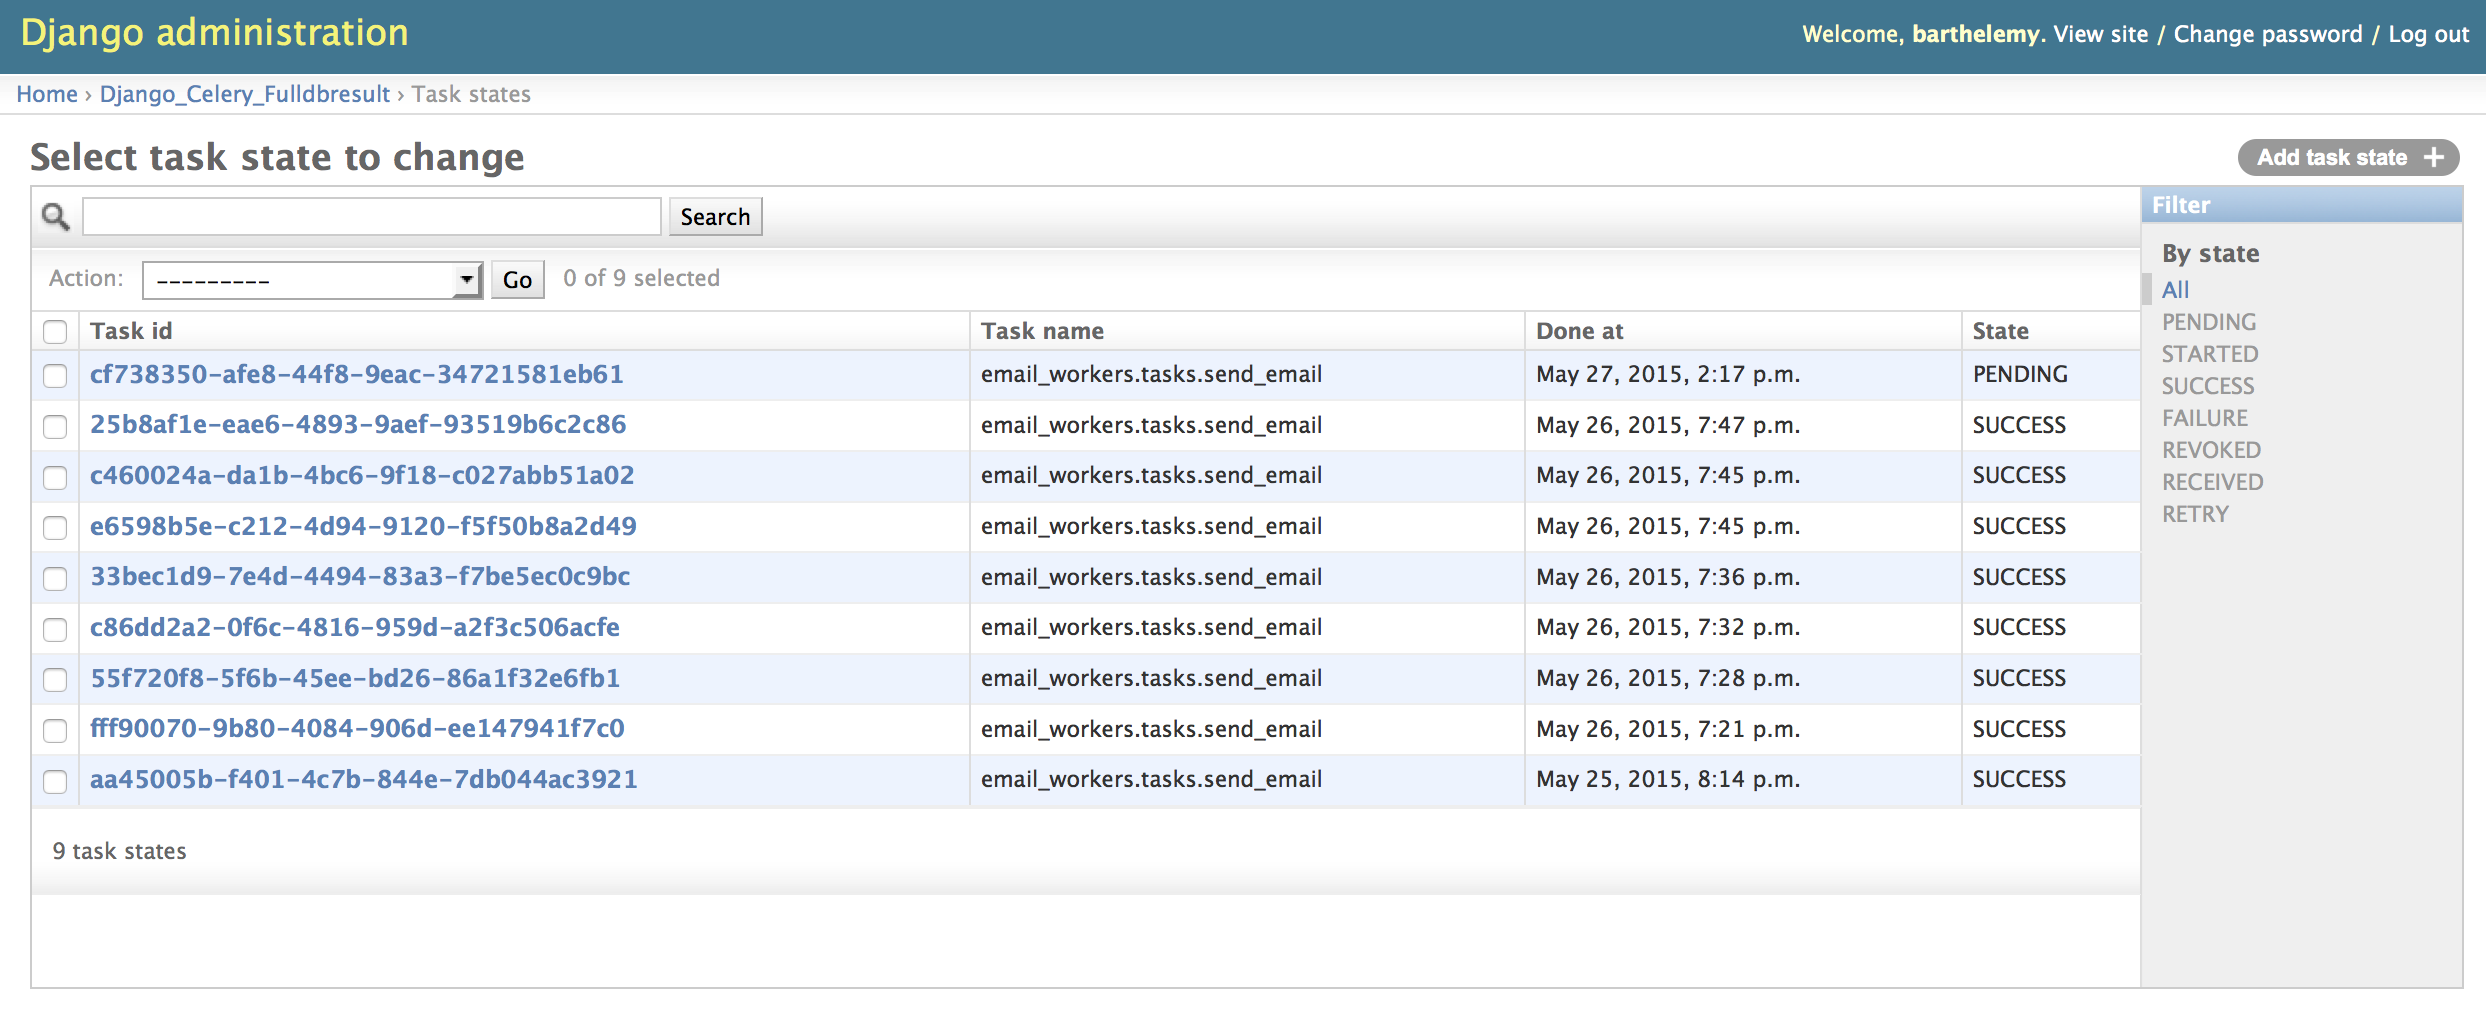
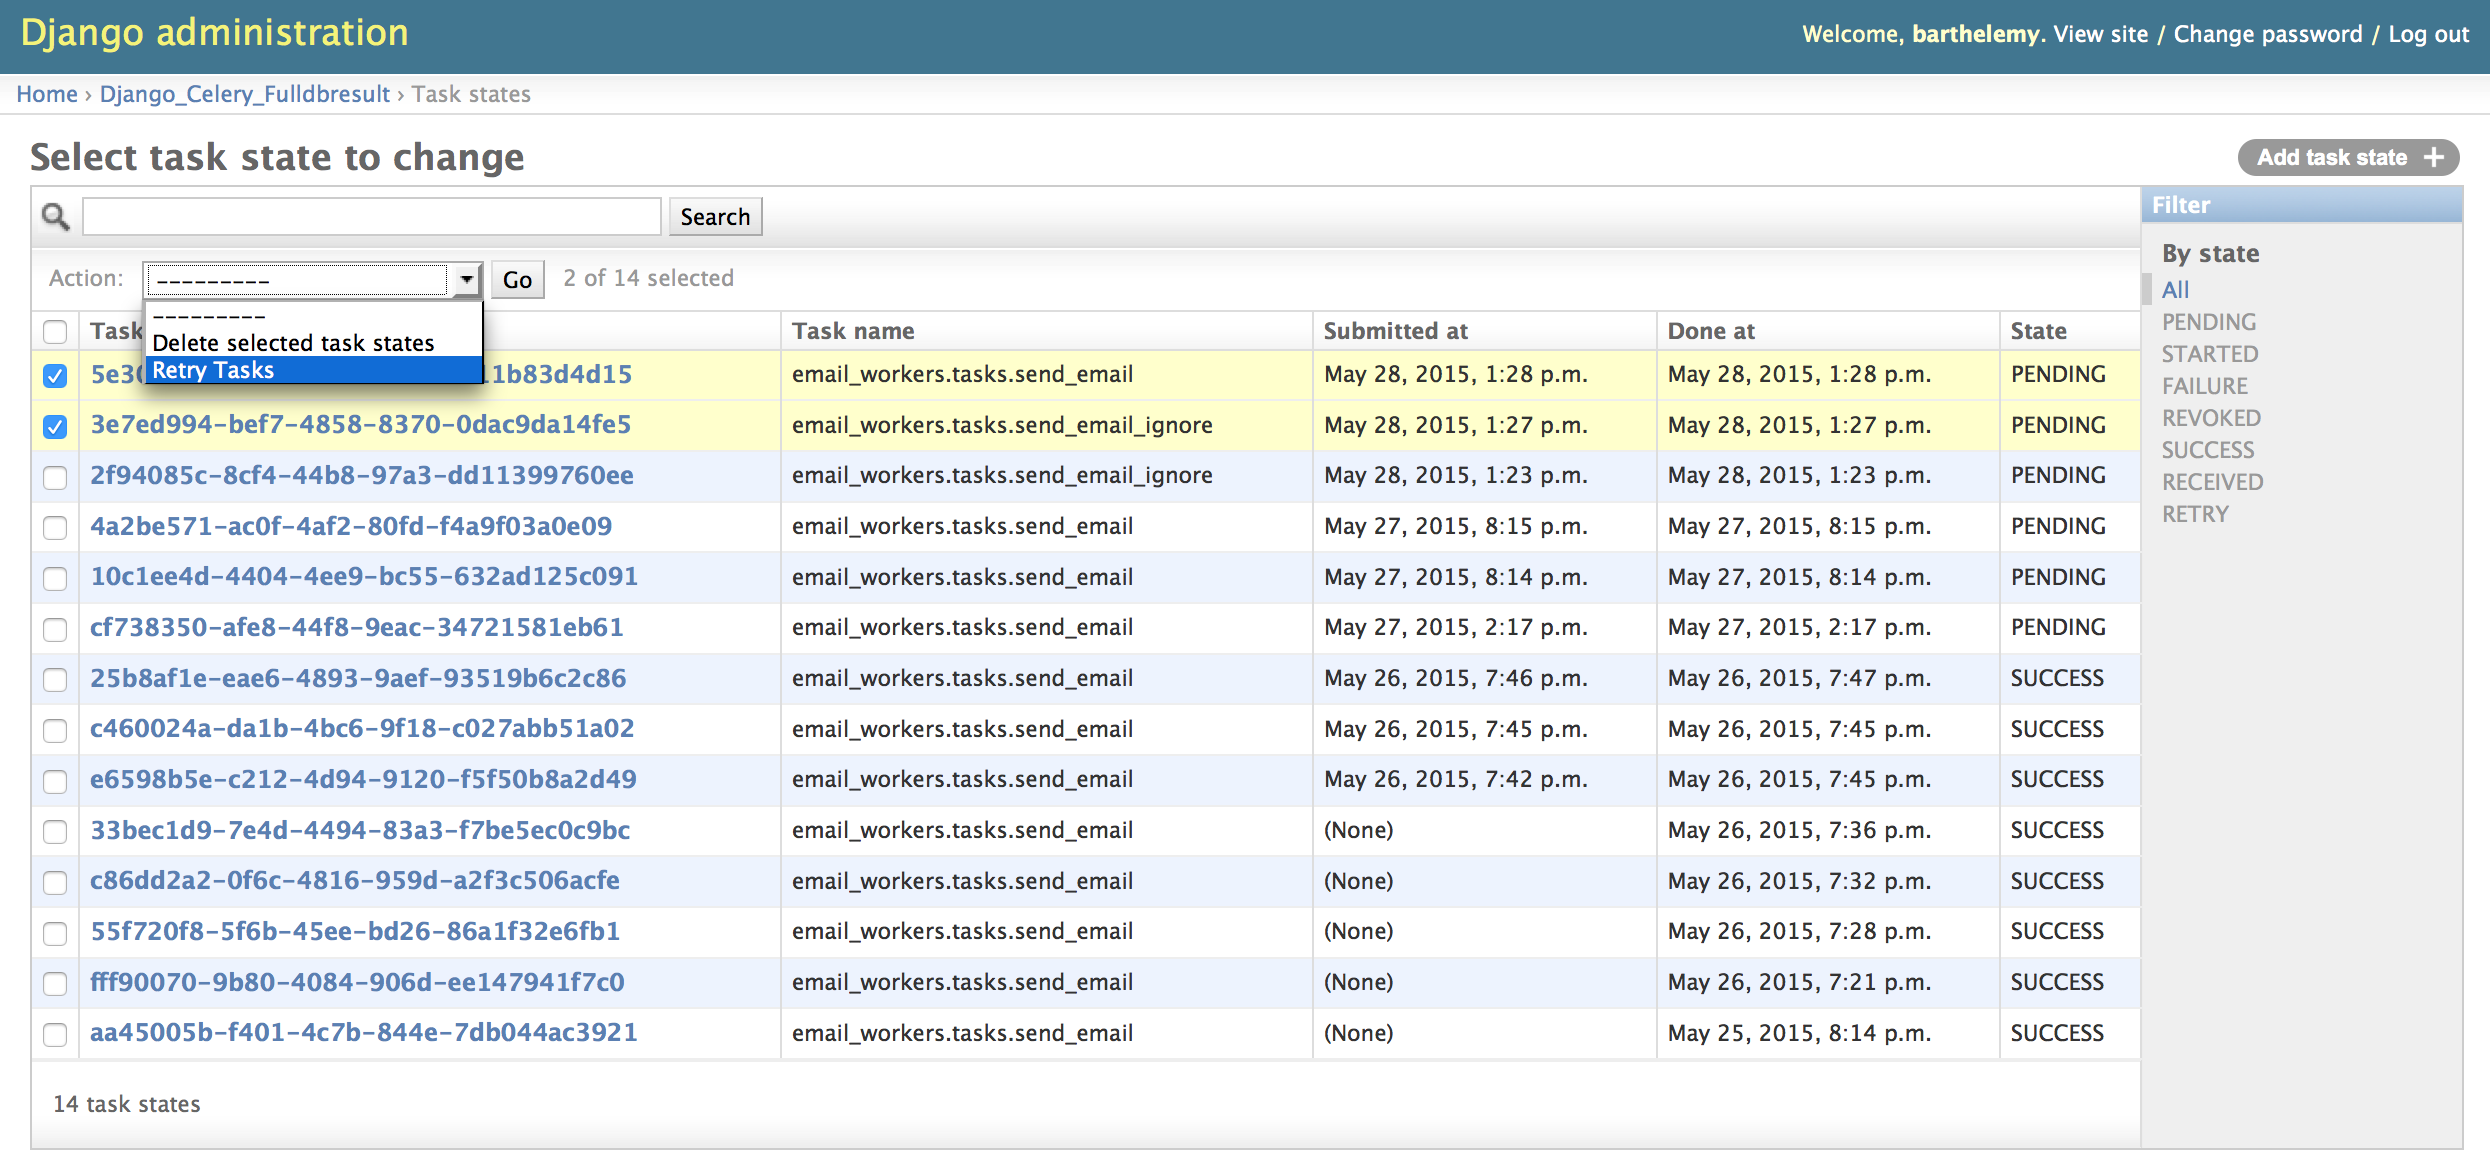
updated screenshot and readme to refer to retry action. refs #3

diff --git a/README.rst b/README.rst
@@ -88,7 +88,9 @@ You can also use the ``find_stale_tasks`` Django command:
     Stale tasks:
       2015-05-27 14:17:37.096366+00:00 - cf738350-afe8-44f8-9eac-34721581eb61: email_workers.tasks.send_email
 
-Finally, the task results are automatically added to the Django Admin site:
+Finally, the task results are automatically added to the Django Admin site. You
+can select task results and retry them: this action will send a copy of each
+task to the worker using the routes you have defined.
 
 .. image:: https://raw.githubusercontent.com/resulto-admin/django-celery-fulldbresult/newbackend/admin_screenshot.png
 
